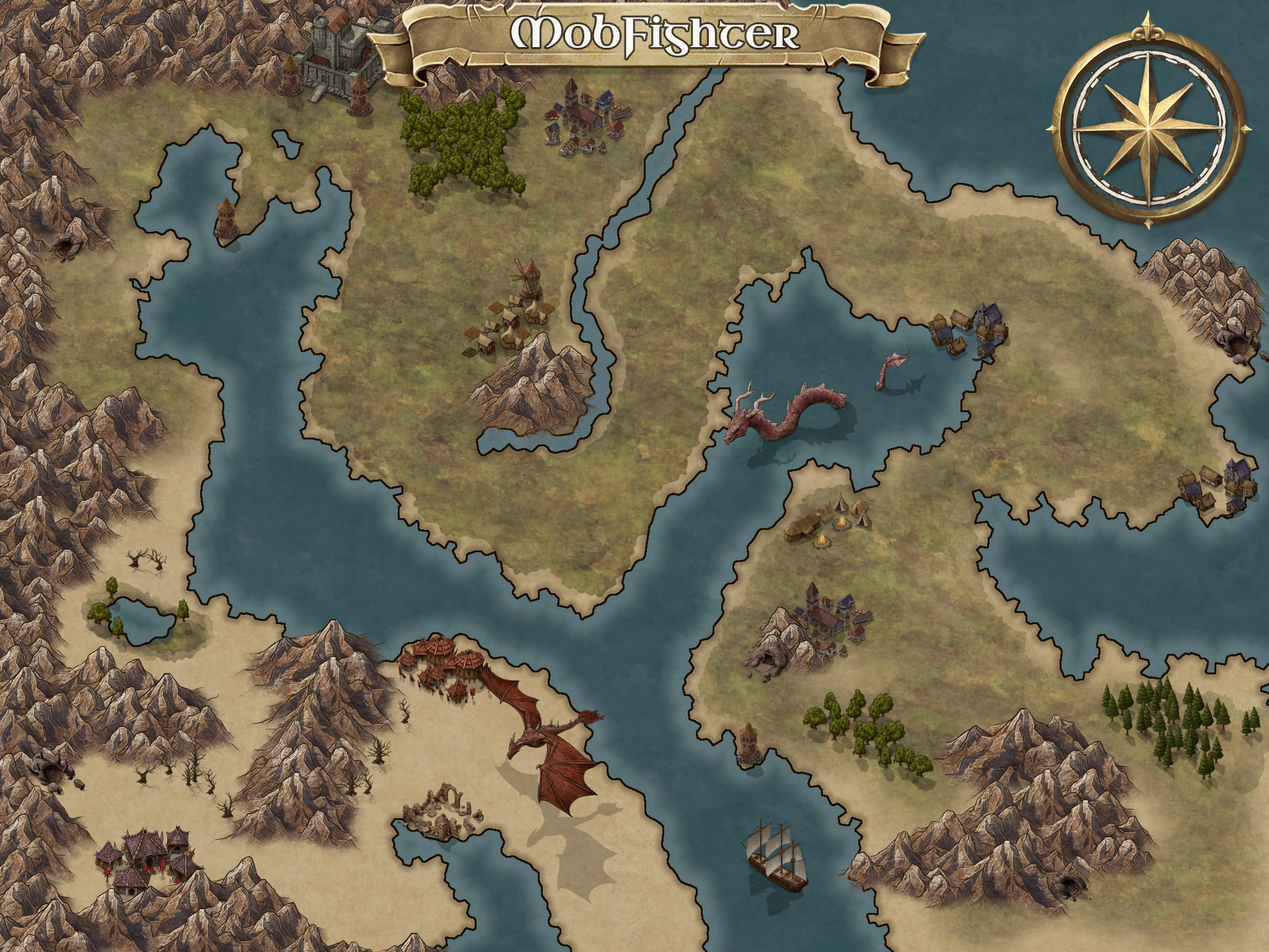
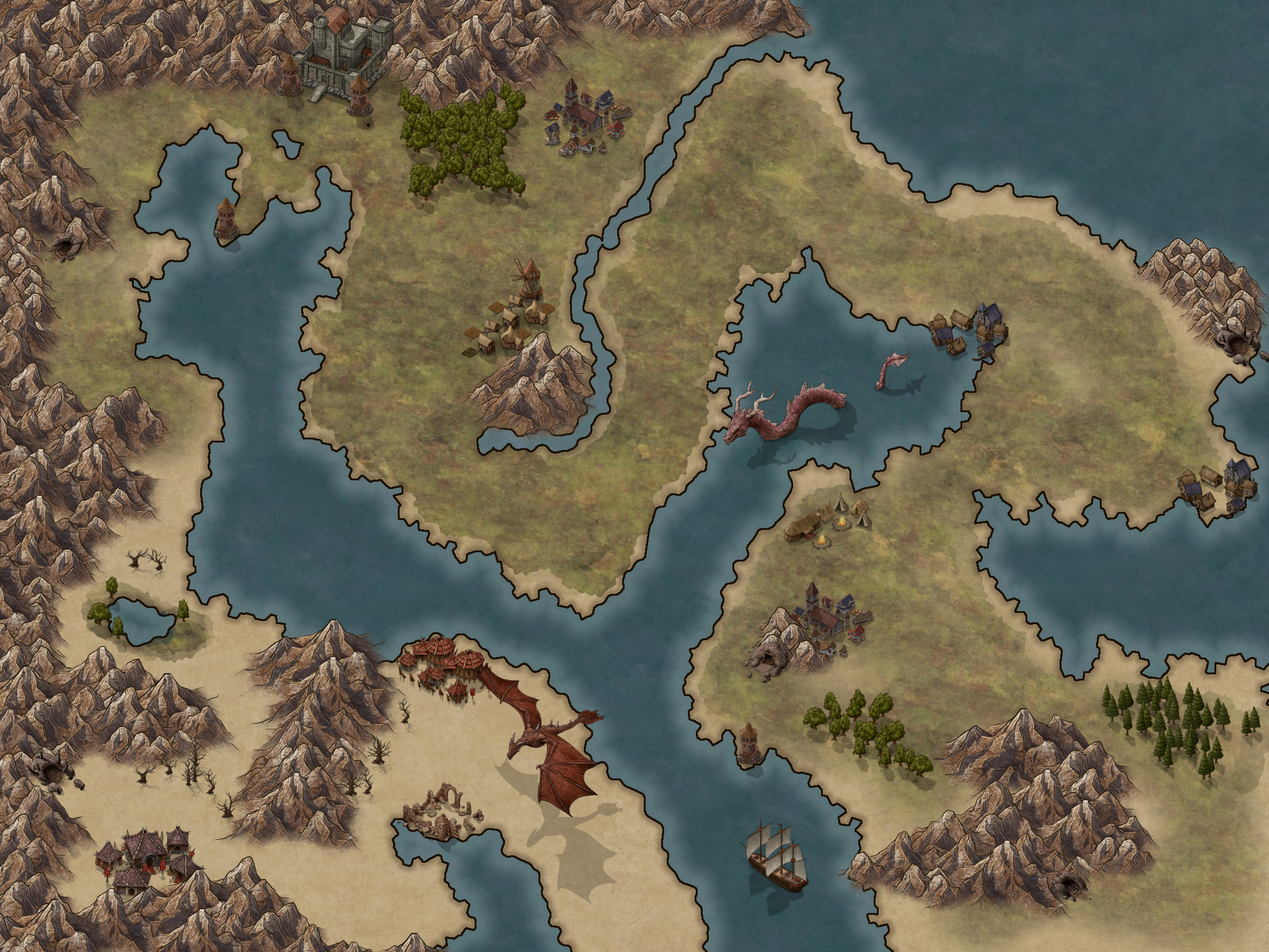
feat: map changed added background image

Changed region(s): [[0.2812, 0.0, 0.75, 0.0938], [0.8125, 0.0, 1.0, 0.25]]

diff --git a/components/blocks/battleMap.vue b/components/blocks/battleMap.vue
@@ -9,8 +9,8 @@
           attributionControl: false,
         }"
         :center="[768, 1024]"
-        :min-zoom="-0.9"
-        :max-zoom="-0.9"
+        :min-zoom="-0.7"
+        :max-zoom="-0.7"
         :crs="crs"
         class="map"
       >
@@ -38,7 +38,7 @@ export default {
         [1536, 2048],
       ]),
       areas: [],
-      style: { color: 'black', weight: 3, fillOpacity: 0, opacity: 0.2 },
+      style: { color: 'black', weight: 4, fillOpacity: 0, opacity: 0.2 },
     }
   },
   async fetch() {
@@ -50,14 +50,17 @@ export default {
 
 <style lang="scss" scoped>
 .map-wrapper {
-  height: calc(100vh - 68px);
+  position: absolute;
+  height: 100%;
   width: 100%;
+  z-index: 0;
 }
 .map {
   height: 100%;
   width: 100%;
 }
 .leaflet-container {
-  background: #0000;
+  background: url('/map-bg-cover.jpg');
+  background-size: 100% 100%;
 }
 </style>
